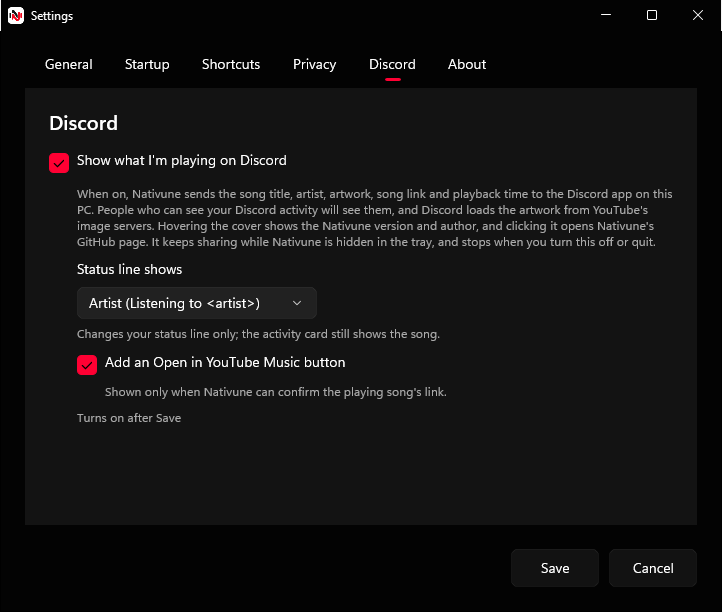
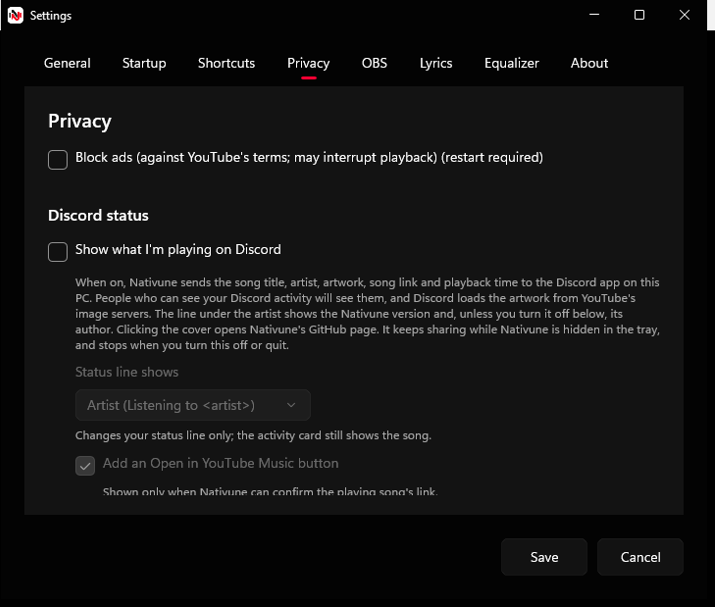
Volume flyouts open Equalizer settings; Discord status moves into Settings › Privacy
Agreed with GPT-6.1-Sol (plan reviewed, Sol built it, Opus verified; pre-push review by Sol).
- New original 'equalizer' native icon (three slider tracks with knobs), rendered with the pinned
  resvg pipeline: 47 active icons, 423 PNGs.
- The toolbar's hover volume flyout and Compact's volume popup gain an Equalizer settings button
  (mouse, Down -> Tab -> Enter, UIA name). Both routes share OpenEqualizerSettings.
- Settings › Discord becomes the Discord status section of Privacy; Discord settings… opens
  Privacy at that section with the checkbox focused.
- README, OBS guide and screenshots updated.
eq-ui-e2e 60/60 + 2 operator-only (rows volume-eq-button-opens-equalizer, discord-settings-in-privacy,
compact-volume-eq-button-opens-equalizer); self-check; check-native-icons.

diff --git a/src/Nativune/WebHostWindow.xaml b/src/Nativune/WebHostWindow.xaml
@@ -151,7 +151,7 @@
           <Button x:Name="OutputMuteButton"
                   Style="{StaticResource ToolbarButtonStyle}"
                   AutomationProperties.Name="Mute WebView audio"
-                  AutomationProperties.HelpText="Click to mute or unmute app output. Hover, right-click, or press Down for the volume slider."
+                  AutomationProperties.HelpText="Click to mute or unmute app output. Hover, right-click, or press Down for volume and Equalizer settings."
                   IsEnabled="False"
                   Content="Mute">
             <Button.ContextFlyout>
@@ -165,11 +165,12 @@
                   </Style>
                 </Flyout.FlyoutPresenterStyle>
                 <Grid x:Name="OutputVolumeFlyoutSurface"
-                      Width="240" Height="48" ColumnSpacing="8"
+                      Width="280" Height="48" ColumnSpacing="8"
                       AutomationProperties.Name="WebView output volume control">
                   <Grid.ColumnDefinitions>
                     <ColumnDefinition Width="180" />
                     <ColumnDefinition Width="52" />
+                    <ColumnDefinition Width="32" />
                   </Grid.ColumnDefinitions>
                   <local:CompactVolumeSlider x:Name="OutputVolumeSlider"
                                              Grid.Column="0" Width="180" Height="40"
@@ -182,6 +183,12 @@
                              Grid.Column="1" Width="52" Height="32"
                              Text="100.0%" TextAlignment="Right" VerticalAlignment="Center"
                              Foreground="{ThemeResource PrimaryTextBrush}" />
+                  <Button x:Name="OutputEqualizerButton" Grid.Column="2"
+                          Width="32" Height="32" Padding="0" VerticalAlignment="Center"
+                          Background="Transparent" BorderBrush="Transparent" BorderThickness="0"
+                          AutomationProperties.Name="Equalizer settings"
+                          AutomationProperties.HelpText="Open Settings on the Equalizer page."
+                          ToolTipService.ToolTip="Equalizer settings" />
                 </Grid>
               </Flyout>
             </Button.ContextFlyout>

diff --git a/src/Nativune/SettingsDialog.xaml b/src/Nativune/SettingsDialog.xaml
@@ -28,7 +28,6 @@
         <NavigationViewItem x:Name="StartupNavItem" Content="Startup" Tag="Startup" AutomationProperties.Name="Startup" />
         <NavigationViewItem x:Name="ShortcutsNavItem" Content="Shortcuts" Tag="Shortcuts" AutomationProperties.Name="Shortcuts" />
         <NavigationViewItem x:Name="PrivacyNavItem" Content="Privacy" Tag="Privacy" AutomationProperties.Name="Privacy" />
-        <NavigationViewItem x:Name="DiscordNavItem" Content="Discord" Tag="Discord" AutomationProperties.Name="Discord" />
         <NavigationViewItem x:Name="ObsNavItem" Content="OBS" Tag="Obs" AutomationProperties.Name="OBS" />
         <NavigationViewItem x:Name="LyricsNavItem" Content="Lyrics" Tag="Lyrics" AutomationProperties.Name="Lyrics" />
         <NavigationViewItem x:Name="EqualizerNavItem" Content="Equalizer" Tag="Equalizer" AutomationProperties.Name="Equalizer" />
@@ -380,14 +379,12 @@
                       Foreground="{ThemeResource PrimaryTextBrush}"
                       AutomationProperties.Name="Block ads (restart required)"
                       AutomationProperties.HelpText="Turns on uBlock Origin Lite's ad filters for YouTube Music. Off by default. YouTube may detect it, interrupt playback or warn your account. Restart required." />
-          </StackPanel>
-
-          <StackPanel x:Name="DiscordPage" Spacing="10" Visibility="Collapsed">
-            <TextBlock Text="Discord"
-                       FontSize="20"
+            <TextBlock x:Name="DiscordSectionHeading" Text="Discord status"
+                       Margin="0,16,0,0"
+                       FontSize="16"
                        FontWeight="SemiBold"
                        Foreground="{ThemeResource PrimaryTextBrush}"
-                       AutomationProperties.HeadingLevel="Level1" />
+                       AutomationProperties.HeadingLevel="Level2" />
             <CheckBox x:Name="DiscordPresenceCheckBox"
                       Content="Show what I'm playing on Discord"
                       MinHeight="36"

diff --git a/src/Nativune/CompactPlayerView.xaml b/src/Nativune/CompactPlayerView.xaml
@@ -249,13 +249,14 @@
                             </Style>
                         </Flyout.FlyoutPresenterStyle>
                         <Grid x:Name="VolumePopupSurface"
-                              Width="240"
+                              Width="280"
                               Height="48"
                               ColumnSpacing="8"
                               AutomationProperties.Name="App output volume control">
                             <Grid.ColumnDefinitions>
                                 <ColumnDefinition Width="180" />
                                 <ColumnDefinition Width="52" />
+                                <ColumnDefinition Width="32" />
                             </Grid.ColumnDefinitions>
                             <local:CompactVolumeSlider x:Name="VolumeSlider"
                                                        Grid.Column="0"
@@ -271,6 +272,12 @@
                                        TextAlignment="Right"
                                        VerticalAlignment="Center"
                                        Foreground="{ThemeResource PrimaryTextBrush}" />
+                            <Button x:Name="VolumeEqualizerButton" Grid.Column="2"
+                                    Width="32" Height="32" Padding="0" VerticalAlignment="Center"
+                                    Background="Transparent" BorderBrush="Transparent" BorderThickness="0"
+                                    AutomationProperties.Name="Equalizer settings"
+                                    AutomationProperties.HelpText="Open Settings on the Equalizer page."
+                                    ToolTipService.ToolTip="Equalizer settings" />
                         </Grid>
                     </Flyout>
                 </Button.ContextFlyout>

diff --git a/src/Nativune/CompactPlayerView.cs b/src/Nativune/CompactPlayerView.cs
@@ -33,6 +33,7 @@ public sealed partial class CompactPlayerView : UserControl, IDisposable
     private IconElement? _dislikeIconElement;
     private IconElement? _playlistsIconElement;
     private IconElement? _volumeIconElement;
+    private IconElement? _equalizerIconElement;
     private IconElement? _repeatIconElement;
     private IconElement? _shuffleIconElement;
     private IconElement? _returnToFullIconElement;
@@ -161,6 +162,7 @@ public sealed partial class CompactPlayerView : UserControl, IDisposable
     internal event Action? UpdateRequested;
     internal event Action? WhatsNewRequested;
     internal event Action? SettingsRequested;
+    internal event Action? EqualizerSettingsRequested;
     internal event Action? StatusRequested;
     internal event Action? TimerRequested;
     internal event Action? CancelTimerRequested;
@@ -513,7 +515,7 @@ public sealed partial class CompactPlayerView : UserControl, IDisposable
         if (!active)
         {
             _volumeSlider.CancelDrag();
-            _volumeCommitTimer.Stop();
+            // Leave the commit timer running: a non-drag change (keyboard/UIA) still commits.
             _volumeHoverCloseTimer.Stop();
             _volumeButtonPointerOver = false;
             _volumePopupPointerOver = false;
@@ -663,6 +665,7 @@ public sealed partial class CompactPlayerView : UserControl, IDisposable
         _inlineStatus.Visibility = Visibility.Collapsed;
         WhatsNewRequested = null;
         SettingsRequested = null;
+        EqualizerSettingsRequested = null;
         StatusRequested = null;
         TimerRequested = null;
         CancelTimerRequested = null;
@@ -680,7 +683,7 @@ public sealed partial class CompactPlayerView : UserControl, IDisposable
         ConfigureButton(_previous, "Previous item", "Previous item.");
         ConfigureButton(_playPause, "Playback controls unavailable", "Playback controls unavailable.");
         ConfigureButton(_next, "Next item", "Next item.");
-        ConfigureButton(_volume, "App output mute", "Activate to mute or unmute app output. Hover to adjust app output; press Down or open the context menu for touch and keyboard access to the slider.");
+        ConfigureButton(_volume, "App output mute", "Activate to mute or unmute app output. Hover to adjust app output or open Equalizer settings; press Down or open the context menu for touch and keyboard access.");
         ConfigureButton(_repeat, "Repeat unavailable", "Repeat state is unavailable until playback controls recover.");
         ConfigureButton(_shuffle, "Shuffle unavailable", "Shuffle is unavailable until playback controls recover.");
         ConfigureButton(_playlists, "Playlists", "Show your YouTube Music playlists and play one.");
@@ -726,6 +729,17 @@ public sealed partial class CompactPlayerView : UserControl, IDisposable
         _volumePopupSurface.AddHandler(UIElement.PointerPressedEvent,
             new PointerEventHandler(PinVolumePopupFromPointer), true);
         _volumePopupSurface.GotFocus += (_, _) => PinVolumePopupFromInteraction();
+        VolumeEqualizerButton.Click += (_, _) =>
+        {
+            if (_disposed || !_active) return;
+            _volumeSlider.CancelDrag();
+            _volumeCommitTimer.Stop();
+            _volumeHoverCloseTimer.Stop();
+            _restoreVolumeFocusOnClose = false;
+            _popupInvoker = null;
+            _volumePopup.Hide();
+            EqualizerSettingsRequested?.Invoke();
+        };
 
         _previous.Click += (_, _) => RaiseCommand("previous");
         _next.Click += (_, _) => RaiseCommand("next");
@@ -967,7 +981,7 @@ public sealed partial class CompactPlayerView : UserControl, IDisposable
         var name = _outputMuted ? "Unmute app output" : "Mute app output";
         var help = !_outputAvailable
             ? CompactVolumeUnavailableHelp
-            : $"Activate to {(_outputMuted ? "unmute" : "mute")} app output. Hover to adjust app output; press Down or open the context menu for touch and keyboard access to the slider. App output {sliderStep / 10:0.0} percent; {(_outputMuted ? "muted" : "unmuted")}."
+            : $"Activate to {(_outputMuted ? "unmute" : "mute")} app output. Hover to adjust app output; press Down or open the context menu for touch and keyboard access to the slider and Equalizer settings. App output {sliderStep / 10:0.0} percent; {(_outputMuted ? "muted" : "unmuted")}."
                 + (_outputSessionActive ? "" : " Preference pending until an owned WebView audio session starts.");
         SetAccessible(_volume, name, help);
         SetAccessible(_volumeSlider, "App output volume", !_outputAvailable
@@ -1269,6 +1283,7 @@ public sealed partial class CompactPlayerView : UserControl, IDisposable
                 _dislike.IsChecked == true ? "dislike-filled" : "dislike", 20);
             var volumeIcon = _outputMuted || _outputVolume <= 0 ? "volume-muted" : "volume";
             BindStatefulIcon(_volume, ref _volumeIconElement, ref _volumeIconName, volumeIcon, 20);
+            BindFixedIcon(VolumeEqualizerButton, ref _equalizerIconElement, "equalizer", 20);
             BindStatefulIcon(_repeatIcon, ref _repeatIconElement, ref _repeatIconName,
                 IsRepeatOne(_state?.Repeat) ? "repeat-one" : "repeat", 20);
             BindFixedIcon(_shuffleIcon, ref _shuffleIconElement, "shuffle", 20);

diff --git a/src/Nativune/SettingsDialog.cs b/src/Nativune/SettingsDialog.cs
@@ -632,6 +632,11 @@ public sealed partial class SettingsDialog : Window
     private void OnRootLoaded(object sender, RoutedEventArgs args)
     {
         Root.Loaded -= OnRootLoaded;
+        if (_discordSectionRequested)
+        {
+            QueueDiscordSectionFocus();
+            return;
+        }
         if (_focusedBinding < 0)
         {
             if (ReferenceEquals(Nav.SelectedItem, EqualizerNavItem)) EqEnabled.Focus(FocusState.Programmatic);
@@ -900,7 +905,26 @@ public sealed partial class SettingsDialog : Window
         DiscordPresenceCheckBox.Unchecked += (_, _) => UpdateDiscordControls(announce: true);
     }
 
-    internal void SelectDiscordPage() => Nav.SelectedItem = DiscordNavItem;
+    private bool _discordSectionRequested;
+
+    internal void SelectDiscordPage()
+    {
+        _discordSectionRequested = true;
+        Nav.SelectedItem = PrivacyNavItem;
+        if (Root.IsLoaded) QueueDiscordSectionFocus();
+    }
+
+    private void QueueDiscordSectionFocus()
+    {
+        DispatcherQueue.TryEnqueue(() =>
+        {
+            if (_closed || !_discordSectionRequested || !ReferenceEquals(Nav.SelectedItem, PrivacyNavItem)) return;
+            _discordSectionRequested = false;
+            Root.UpdateLayout();
+            DiscordPresenceCheckBox.Focus(FocusState.Programmatic);
+            DiscordSectionHeading.StartBringIntoView(new BringIntoViewOptions { AnimationDesired = false });
+        });
+    }
 
     internal event EventHandler? OpenLyricsSettingsRequested;
 
@@ -1068,7 +1092,6 @@ public sealed partial class SettingsDialog : Window
         StartupPage.Visibility = tag == "Startup" ? Visibility.Visible : Visibility.Collapsed;
         ShortcutsPage.Visibility = tag == "Shortcuts" ? Visibility.Visible : Visibility.Collapsed;
         PrivacyPage.Visibility = tag == "Privacy" ? Visibility.Visible : Visibility.Collapsed;
-        DiscordPage.Visibility = tag == "Discord" ? Visibility.Visible : Visibility.Collapsed;
         ObsPage.Visibility = tag == "Obs" ? Visibility.Visible : Visibility.Collapsed;
         LyricsPage.Visibility = tag == "Lyrics" ? Visibility.Visible : Visibility.Collapsed;
         EqualizerPage.Visibility = tag == "Equalizer" ? Visibility.Visible : Visibility.Collapsed;

diff --git a/src/Nativune/WebHost.Audio.cs b/src/Nativune/WebHost.Audio.cs
@@ -122,7 +122,8 @@ public sealed partial class WebHostWindow
         };
         OutputVolumeFlyoutSurface.AddHandler(UIElement.PointerPressedEvent,
             new PointerEventHandler((_, _) => PinOutputFlyout()), true);
-        OutputVolumeSlider.GotFocus += (_, _) => PinOutputFlyout();
+        OutputVolumeFlyoutSurface.GotFocus += (_, _) => PinOutputFlyout();
+        OutputEqualizerButton.Click += (_, _) => OpenEqualizerSettings();
         OutputVolumeFlyout.Opened += (_, _) =>
         {
             if (_outputFlyoutFocusSlider && OutputVolumeSlider.IsEnabled)
@@ -733,7 +734,7 @@ public sealed partial class WebHostWindow
             AutomationProperties.SetHelpText(OutputMuteButton,
                 !ready ? unavailableHelp
                     : sessionActive
-                        ? $"Click to {(muted ? "unmute" : "mute")} app output. Hover, right-click, or press Down for the volume slider. App output {value:P1}; independent of YouTube Music volume."
+                        ? $"Click to {(muted ? "unmute" : "mute")} app output. Hover, right-click, or press Down for volume and Equalizer settings. App output {value:P1}; independent of YouTube Music volume."
                         : audio.HasOwnedSessions
                             ? "Verified WebView audio sessions are present but report inconsistent output states. Explicit volume and mute requests are applied transactionally across those owned sessions."
                             : $"Click to {(muted ? "unmute" : "mute")} WebView output; hover, right-click, or press Down for its slider. {value:P1} is a pending preference until an owned audio session starts.");

diff --git a/src/Nativune/WebHost.Toolbar.cs b/src/Nativune/WebHost.Toolbar.cs
@@ -53,12 +53,7 @@ public sealed partial class WebHostWindow
         };
         var equalizerSettingsItem = new MenuFlyoutItem { Text = "Equalizer settings…" };
         AutomationProperties.SetName(equalizerSettingsItem, "Equalizer settings");
-        equalizerSettingsItem.Click += (_, _) =>
-        {
-            if (_closing || _disposed || _settingsDialogOpen) return;
-            _openEqualizerSettings = true;
-            ShowSettings();
-        };
+        equalizerSettingsItem.Click += (_, _) => OpenEqualizerSettings();
         EqualizerStatusChanged += (_, _) => CompactView.SetEqualizerStatus(EqualizerStatus);
         CompactView.SetEqualizerStatus(EqualizerStatus);
         _moreFlyout.Opening += (_, _) => RefreshToolbarOverflowItems();
@@ -67,6 +62,14 @@ public sealed partial class WebHostWindow
         RefreshToolbarOverflowItems();
         return [_homeOverflowItem, _forwardOverflowItem, _volumeOverflowItem, _setTimerOverflowItem, _cancelTimerOverflowItem, _updateOverflowItem,
             _equalizerMenuItem, equalizerSettingsItem];
+    }
+
+    private void OpenEqualizerSettings()
+    {
+        if (_closing || _disposed || _settingsDialogOpen) return;
+        CloseOutputVolumeFlyout();
+        _openEqualizerSettings = true;
+        ShowSettings();
     }
 
     private void SetToolbarOverflowIcons()

diff --git a/scripts/check-native-icons.py b/scripts/check-native-icons.py
@@ -12,7 +12,7 @@ pwsh = shutil.which('pwsh')
 assert pwsh, 'PowerShell 7 is required for the raster wrapper'
 active_names = {
     'app-mark', 'back', 'cancel-timer', 'close', 'compact', 'discord', 'dislike',
-    'dislike-filled', 'donate', 'error', 'exit-fullscreen', 'forward', 'fullscreen', 'hide', 'home',
+    'dislike-filled', 'donate', 'equalizer', 'error', 'exit-fullscreen', 'forward', 'fullscreen', 'hide', 'home',
     'like', 'like-filled', 'minimize', 'next', 'obs', 'overflow', 'pause', 'pin', 'play-pause',
     'play', 'playlist', 'previous', 'quit-timer', 'quit', 'repeat-one', 'repeat',
     'restore-section', 'restore-window', 'retry', 'settings', 'show',
@@ -21,7 +21,7 @@ active_names = {
 }
 mask_root = root / 'assets' / 'native-icons' / 'states' / 'mask'
 assert {path.stem for path in mask_root.glob('*.svg')} == active_names, (
-    'active mask registry must contain exactly the 46 canonical SVG names'
+    'active mask registry must contain exactly the 47 canonical SVG names'
 )
 discord_svg = (mask_root / 'discord.svg').read_text(encoding='utf-8')
 assert '<g transform="translate(2 4.4196) scale(0.157925)">' in discord_svg

diff --git a/src/Nativune/ShellSettings.cs b/src/Nativune/ShellSettings.cs
@@ -26,7 +26,7 @@ internal sealed record ShellSettings(int X, int Y, int Width, int Height, int Dp
     public bool BlockAds { get; init; }
     // Launch state for --autostart runs (Settings > Startup). Start-with-Windows itself lives in the registry.
     public AutostartMode AutostartMode { get; init; } = AutostartMode.Tray;
-    // Opt-in Discord Rich Presence (Settings > Discord). Off by default; versions before 7 load off.
+    // Opt-in Discord Rich Presence (Settings > Privacy > Discord status). Off by default; versions before 7 load off.
     public DiscordPresenceOptions Discord { get; init; } = DiscordPresenceOptions.Default;
     // Barebones Better Lyrics (Settings > Lyrics). On by default (owner decision, 28 September 2026); missing loads on.
     public bool BetterLyricsEnabled { get; init; } = true;

diff --git a/src/Nativune/WebHost.cs b/src/Nativune/WebHost.cs
@@ -577,6 +577,7 @@ public sealed partial class WebHostWindow : Window
     private void SetButtonIcons()
     {
         BackButton.Content = _iconCache.CreateElement("back", 20);
+        OutputEqualizerButton.Content = _iconCache.CreateElement("equalizer", 20);
         DiscordButton.Content = _iconCache.CreateElement("discord", 20);
         ForwardButton.Content = _iconCache.CreateElement("forward", 20);
         HomeButton.Content = _iconCache.CreateElement("home", 20);

diff --git a/src/Nativune/DiscordPresenceOptions.cs b/src/Nativune/DiscordPresenceOptions.cs
@@ -1,6 +1,6 @@
 namespace Nativune;
 
-// Settings > Discord. Persisted in settings.json v7 as DiscordPresence / DiscordStatusLine / DiscordOpenButton / DiscordShowAuthor.
+// Settings > Privacy > Discord status. Persisted in settings.json v7 as DiscordPresence / DiscordStatusLine / DiscordOpenButton / DiscordShowAuthor.
 internal enum DiscordStatusLine
 {
     Artist = 0,   // status_display_type 1 (state); falls back to the app name when the artist is unknown

diff --git a/src/Nativune/WebHost.Compact.cs b/src/Nativune/WebHost.Compact.cs
@@ -112,6 +112,7 @@ public sealed partial class WebHostWindow
         CompactView.ReturnToFullRequested += () => SetCompact(false);
         CompactView.UpdateRequested += OnUpdateButtonClick;
         CompactView.SettingsRequested += () => ShowSettings();
+        CompactView.EqualizerSettingsRequested += OpenEqualizerSettings;
         CompactView.WhatsNewRequested += () =>
         {
             if (_pendingWhatsNewVersion is { } version)
